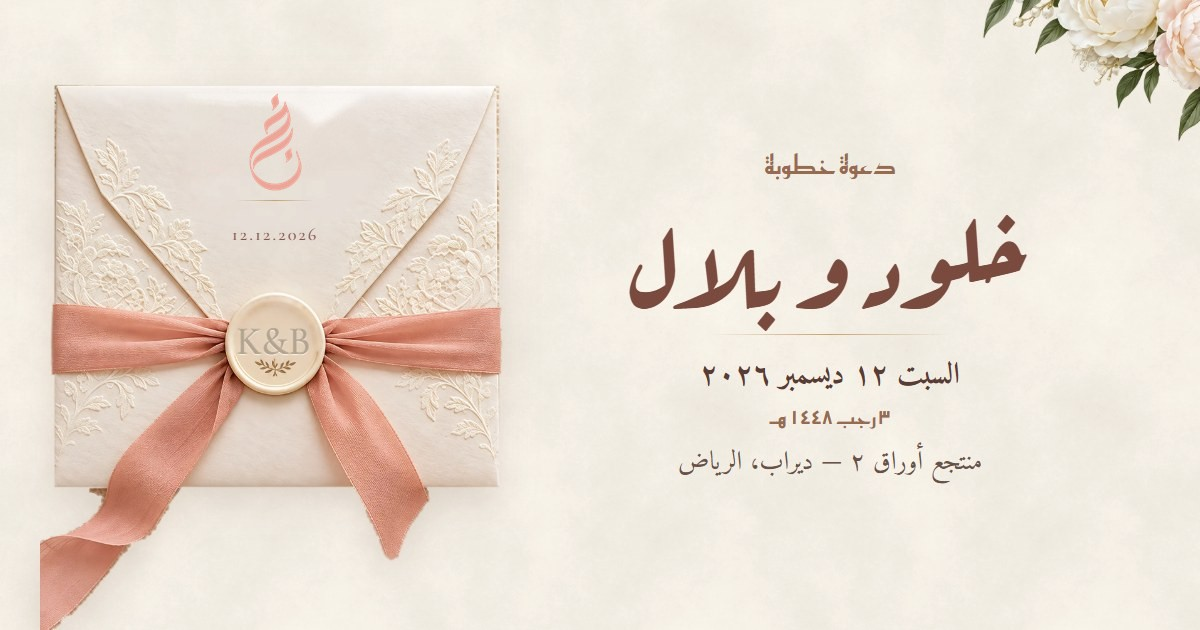
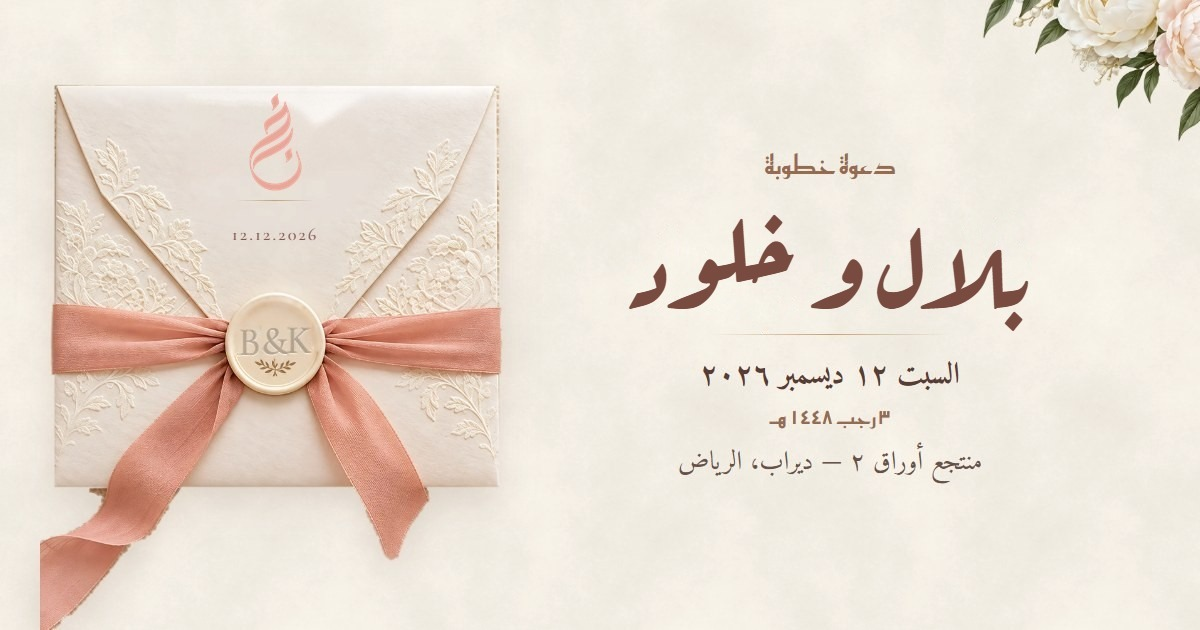
G55weuy بطلب المالك: بلال الأول وخلود بعده (الظرف والصفحة وكارت اللينك B&K) + 7:00 PM تحت 12/12/2026 + اسم الموعد في التقويم Khloud & Belal Engagement
Claude-Session: https://claude.ai/code/session_018uZ4NkpTKXWRE8ncg3V81k

Changed region(s): [[0.5242, 0.3317, 0.8633, 0.5429], [0.185, 0.5127, 0.2158, 0.573], [0.2467, 0.5429, 0.2775, 0.573]]

diff --git a/custom-invitations/G55weuy.js b/custom-invitations/G55weuy.js
@@ -81,6 +81,9 @@ body{background-color:#faf5ee}
 .kb-date-row{direction:ltr;unicode-bidi:isolate;display:flex;justify-content:center;align-items:baseline;gap:2.6cqw;margin:5cqw auto 3cqw;
   font-family:'Cormorant Garamond',serif;font-weight:500;font-size:15cqw;line-height:1;color:#7a4a3e;font-variant-numeric:lining-nums;font-feature-settings:"lnum"}
 .kb-date-row i{font-style:normal;font-weight:300;font-size:.62em;color:#c9a26b;transform:translateY(-.08em)}
+/* (المالك 2026-11-19) ميعاد الخطوبة تحت التاريخ على طول */
+.kb-date-time{direction:ltr;unicode-bidi:isolate;margin:-0.6cqw auto 3cqw;font-family:'Cormorant Garamond',serif;font-weight:500;font-size:7cqw;
+  letter-spacing:.12em;line-height:1.2;color:#986a4f;font-variant-numeric:lining-nums;font-feature-settings:"lnum"}
 /* تحت "شكرًا لردّكم، ولكم منّا كل المحبة" في الختام */
 .kb-end-date{direction:ltr;unicode-bidi:isolate;margin-top:3.2cqw;font-family:'Cormorant Garamond',serif;font-weight:500;font-size:5.6cqw;
   letter-spacing:.14em;color:#986a4f;font-variant-numeric:lining-nums;font-feature-settings:"lnum"}
@@ -142,7 +145,8 @@ body{background-color:#faf5ee}
 //  • أندرويد والكمبيوتر: لوحة صغيرة بلون الدعوة فيها اختيارين: تقويم الموبايل (سامسونج وغيره — نفس الملف بالتنبيه)
 //    أو تقويم Google (بيفتح الأبلكيشن والحدث جاهز). جوه متصفح التطبيقات على أندرويد الملف بيتفتح في كروم.
 //  القالب كان بيفتح تقويم جوجل بس وباسم "بلال صبري" — دلوقتي العنوان "خطوبة خلود وبلال" وساعة الدعوة (7 مساءً من 2026-11-19).
-const CAL_TITLE = 'خطوبة خلود وبلال';
+// (المالك 2026-11-19) اسم الموعد في تطبيق التقويم بالإنجليزي
+const CAL_TITLE = 'Khloud & Belal Engagement';
 const CAL_CSS = `<style id="kb-cal-style">
 .kb-cal-note{margin:3.2cqw auto 0;font-family:'Amiri',serif;font-size:4cqw;line-height:1.5;color:#986a4f}
 .kb-cal{position:fixed;inset:0;z-index:2147482000;display:flex;align-items:flex-end;justify-content:center;background:rgba(60,36,28,0);transition:background .3s ease;direction:rtl}
@@ -298,7 +302,7 @@ module.exports = {
     // الموعد مكتوب في "موعد فرحنا" تحته على طول: "مش عايز يبقى الميعاد مكرر مرتين"
     out = out.replace(/<p class="date-line[^"]*"[^>]*data-elem-id="pp10"[^>]*><\/p>\s*/, '');
     // (المالك 2026-11-18) "موعد فرحتنا": 12/12/2026 أرقام جنب بعض (اليوم/الشهر/السنة القدام مستخبيين بالـ CSS)
-    out = out.replace(/(<div class="big-day[^"]*"[^>]*data-elem-id="pp12"[^>]*><\/div>)/, (m) => `<p class="kb-date-row r d1" dir="ltr"><span>12</span><i>/</i><span>12</span><i>/</i><span>2026</span></p>\n    ${m}`);
+    out = out.replace(/(<div class="big-day[^"]*"[^>]*data-elem-id="pp12"[^>]*><\/div>)/, (m) => `<p class="kb-date-row r d1" dir="ltr"><span>12</span><i>/</i><span>12</span><i>/</i><span>2026</span></p>\n    <p class="kb-date-time r d2" dir="ltr">7:00 PM</p>\n    ${m}`);
     // ... وتحت "شكرًا لردّكم، ولكم منّا كل المحبة" في الختام
     out = out.replace(/(<p class="p r d1" data-elem-id="pp60"><\/p>)/, (m) => `${m}\n    <p class="kb-end-date r d2" dir="ltr">12/12/2026</p>`);
     // تنويه المسبح (المالك 2026-11-13) — جوه رسالة الترحيب بعد آخر جملة وقبل "مستنيينكم بكل الحب"

diff --git a/utils/oneOffFixes.js b/utils/oneOffFixes.js
@@ -2025,6 +2025,17 @@ const FIXES = [
       return { weddingDateTime: new Date(Date.UTC(d.getUTCFullYear(), d.getUTCMonth(), d.getUTCDate(), 19, 0, 0)) };
     },
   },
+  {
+    // G55weuy — بطلب المالك (2026-11-19): بلال الأول (على اليمين) وخلود بعده — على الظرف (pp2/pp62) وفي
+    // الصفحة (pp7/pp63). بيتعمل بس لو الترتيب لسه خلود الأول.
+    name: 'G55weuy-belal-first',
+    shortId: 'G55weuy',
+    select: 'customizations templateId',
+    when: (c, inv) => inv.templateId === 'pearl-peony' && (c.texts || {}).pp7 === 'خلود' && (c.texts || {}).pp63 === 'بلال',
+    apply: (c) => ({
+      'customizations.texts': { ...(c.texts || {}), pp2: 'بلال', pp62: 'خلود', pp7: 'بلال', pp63: 'خلود' },
+    }),
+  },
 ];
 
 let done = false;
